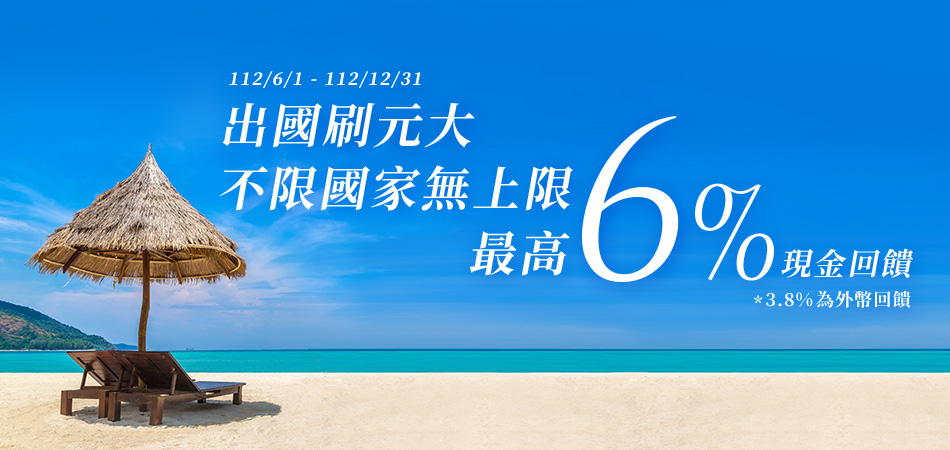
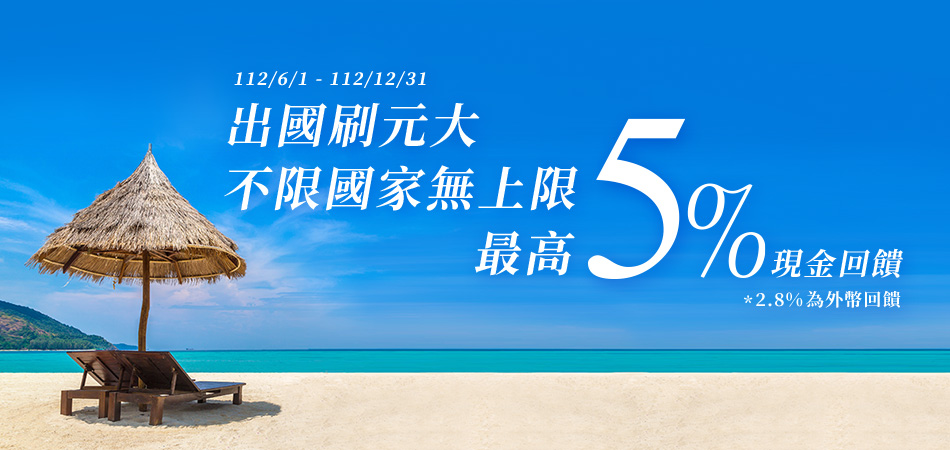
2

Changed region(s): [[0.2137, 0.2489, 0.9768, 0.6844], [0.2137, 0.1556, 0.5189, 0.3422]]

diff --git a/overseas/index.html b/overseas/index.html
@@ -5,7 +5,7 @@
 <meta name="viewport" content="width=device-width, initial-scale=1.0" />
 <meta name="format-detection" content="telephone=no" />
 <link rel="shortcut icon" type="image/x-icon" href="https://www.yuantabank.com.tw/bank/resources/front/images/favicon.ico" />
-<title>元大銀行｜元大鑽金卡6%海外消費現金回饋無上限</title>
+<title>元大銀行｜元大鑽金卡5%海外消費現金回饋無上限</title>
 <style type="text/css">
 * {
     box-sizing: border-box;
@@ -99,7 +99,7 @@ a:visited {
 
 <body leftmargin="0" topmargin="0" marginwidth="0" marginheight="0" bgcolor="#ffffff">
     <!-- inbox-preview -->
-    <div class="inbox-preview" style="display: none; font-size: 0; max-height: 0; line-height: 0; padding: 0; mso-hide: all">112/6/1 – 112/12/31，元大鑽金卡6%海外消費現金回饋無上限，海外旅遊首選，玩轉全球回饋無上限</div>
+    <div class="inbox-preview" style="display: none; font-size: 0; max-height: 0; line-height: 0; padding: 0; mso-hide: all">112/6/1 – 112/12/31，元大鑽金卡5%海外消費現金回饋無上限，海外旅遊首選，玩轉全球回饋無上限</div>
     <!-- link -->
     <p style="text-align: center;"><span style="color: #1b74c7; font-size: 11pt;"><a style="color: #1b74c7;" href="mailhunteronlineedm.aspx"><span style="text-decoration: underline;">【若無法顯示，請點此觀看網頁版，謝謝！】</span></a></span></p>
     
@@ -116,7 +116,7 @@ a:visited {
                         </tr>
                         <tr>
                             <td style="font-size: 0">
-                                <a href="https://www.yuantabank.com.tw/bankwebIMG/event/Bank_Act2023/Overseas/index.html" target="_blank"><img src="images/topbanner.jpg" alt="元大銀行｜元大鑽金卡6%海外消費現金回饋無上限" style="width: 100%; max-width: 950px" border="0" /></a>
+                                <a href="https://www.yuantabank.com.tw/bankwebIMG/event/Bank_Act2023/Overseas/index.html" target="_blank"><img src="images/topbanner.jpg" alt="元大銀行｜元大鑽金卡5%海外消費現金回饋無上限" style="width: 100%; max-width: 950px" border="0" /></a>
                             </td>
                         </tr>
                     </table>
@@ -162,7 +162,7 @@ a:visited {
                                     </tr>
                                     <tr>
 						                <td align="center" class="info-txt" style="color: #324554; font-size: 18px; line-height: 36px; text-align: center;">
-						                	完成元大銀行外幣帳戶綁定及設定臺幣帳戶自動扣繳卡費，<br class="mob-none">海外實體消費最高 <b class="blue info-txtb" style="font-size: 26px;">6%</b> 回饋。</td>
+						                	完成元大銀行外幣帳戶綁定及設定臺幣帳戶自動扣繳卡費，<br class="mob-none">海外實體消費最高 <b class="blue info-txtb" style="font-size: 26px;">5%</b> 回饋。</td>
 						            </tr>
 						            <tr>
                                         <td height="15">
@@ -174,7 +174,7 @@ a:visited {
                                     	<td>
                                     		<table width="100%" class="percentTable" cellspacing="0" cellpadding="0" border="0" align="center" style="text-align: center; font-weight: bold; border: 1px solid #005bac; border-collapse: collapse;">
                                     			<tr>
-                                                    <td colspan="3" class="percent-tit" style="background-color: #005bac; text-align: center; font-size: 30px; font-weight: bold; line-height: 48px; padding: 15px; color: #ffffff; border: 1px solid #005bac; border-collapse: collapse;">最高回饋 <span class="percent-tit-number" style="font-size: 42px;">6%</span></td>
+                                                    <td colspan="3" class="percent-tit" style="background-color: #005bac; text-align: center; font-size: 30px; font-weight: bold; line-height: 48px; padding: 15px; color: #ffffff; border: 1px solid #005bac; border-collapse: collapse;">最高回饋 <span class="percent-tit-number" style="font-size: 42px;">5%</span></td>
                                                 </tr>
                                                 <tr>
                                                 	<td class="percentTd" valign="middle" width="33%" height="220" style="border: 1px solid #005bac; border-collapse: collapse;">
@@ -197,19 +197,6 @@ a:visited {
                                                 			</tr>
                                                 			<tr valign="middle">
                                                 				<td height="80" class="percent-txt-number" style="font-size: 40px; font-weight: bold; color: #bb925b; line-height: 72px; text-align: center; border: 0;"><span style="font-size: 24px;">+</span>2.8%</td>
-                                                			</tr>
-                                                			<tr valign="middle">
-                                                				<td height="20" class="percent-txts" style="font-size: 16px; font-weight: bold; line-height: 20px; color: #324554; text-align: center; border: 0;">（外幣回饋）</td>
-                                                			</tr>
-                                                		</table>
-                                                	</td>
-                                                	<td class="percentTd" valign="middle" width="33%" height="220" style="border: 1px solid #005bac; border-collapse: collapse;">
-                                                		<table class="percentTableNumber" cellspacing="0" cellpadding="0" border="0" align="center">
-                                                			<tr valign="middle">
-                                                				<td height="60" class="percent-txt" style="font-size: 20px; font-weight: bold; line-height: 30px; color: #324554; text-align: center; border: 0;">信用卡<br>新戶加碼</td>
-                                                			</tr>
-                                                			<tr valign="middle">
-                                                				<td height="80" class="percent-txt-number" style="font-size: 40px; font-weight: bold; color: #bb925b; line-height: 72px; text-align: center; border: 0;"><span style="font-size: 24px;">+</span>1%</td>
                                                 			</tr>
                                                 			<tr valign="middle">
                                                 				<td height="20" class="percent-txts" style="font-size: 16px; font-weight: bold; line-height: 20px; color: #324554; text-align: center; border: 0;">（外幣回饋）</td>
